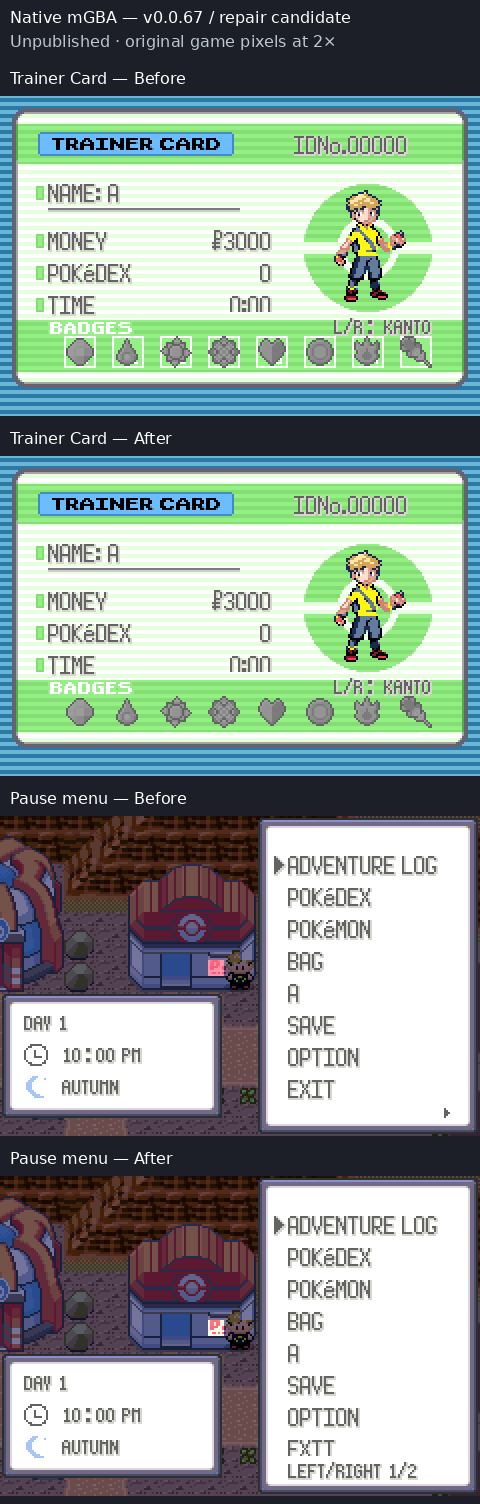
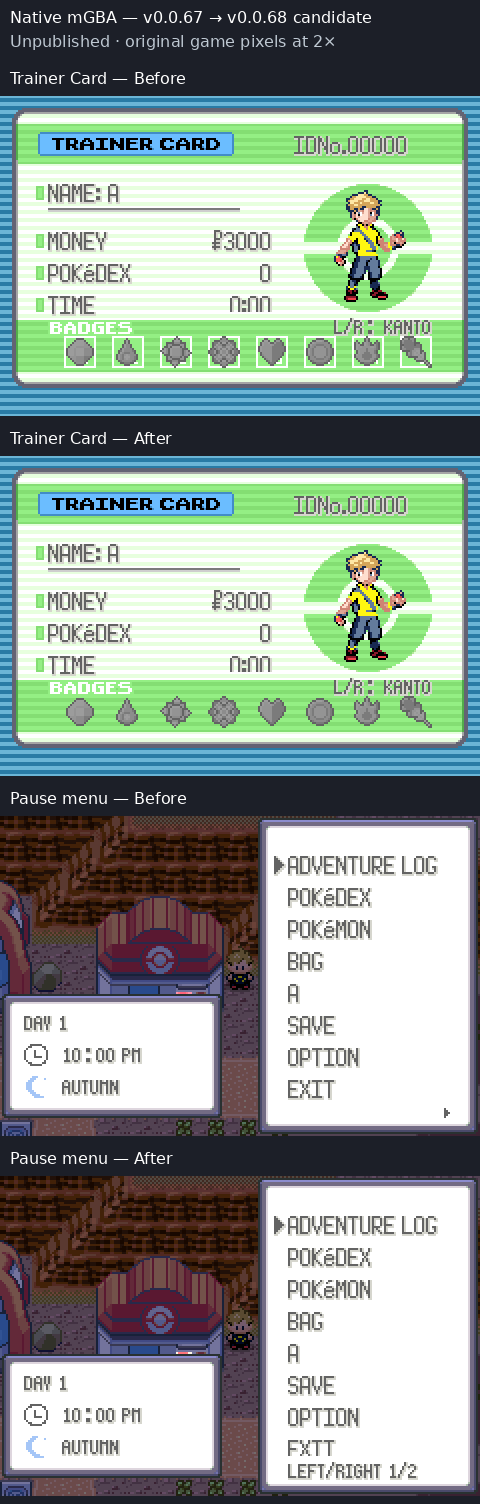
Prepare v0.0.68 visual repair candidate and downloadable CI patch artifacts

diff --git a/docs/changelog.html b/docs/changelog.html
@@ -5,7 +5,7 @@
   <meta name="viewport" content="width=device-width,initial-scale=1">
   <meta name="theme-color" content="#173b2d">
   <title>Changelog - Pokémon Emerald: Legends</title>
-  <meta name="description" content="Release and Debug changelogs for Pokémon Emerald: Legends v0.0.63.">
+  <meta name="description" content="Release and Debug changelogs for Pokémon Emerald: Legends v0.0.68.">
   <link rel="stylesheet" href="style.css?v=20261015-3">
 </head>
 <body>
@@ -15,7 +15,7 @@
         <img src="images/pikachu-header.gif" width="500" height="492" alt="" decoding="async">
       </span>
       <div class="title">EMERALD: LEGENDS // CHANGELOG</div>
-      <div class="version">v0.0.63</div>
+      <div class="version">v0.0.68</div>
     </header>
 
     <section class="panel changelog-shell">
@@ -29,11 +29,12 @@
       </div>
 
       <section class="changelog-view" id="release-changelog" role="tabpanel" aria-labelledby="release-tab" data-tab-panel="release">
+        <div class="change-entry"><h2>v0.0.68 <span class="change-date">October 20, 2026</span></h2><ul><li>Removed the numbered white Trainer Card badge boxes behind transparent badge art.</li><li>Restored the native black bedroom surround without changing furniture, rugs, beds or the ceiling trim.</li><li>Kept Pokémon Center sign faces warm white at night, with distinct red lettering and unchanged daytime artwork.</li><li>Replaced the pause page triangle with a LEFT/RIGHT page label and retained separate list-scroll indicators.</li><li>Preserved approved wardrobe art, saved choices and seasonal encounters; rare outfit oversaturation remained unresolved.</li><li>Shared these changes between Release and Debug; no variant-specific gameplay differences.</li></ul></div>
         <div class="change-entry"><h2>v0.0.67 <span class="change-date">October 20, 2026</span></h2><ul><li>Added 40 seasonal visitors across Generations 1–9 to Routes 117–121, with two visitors per route in each season.</li><li>Retained every original resident year-round, the previous 64 seasonal tables, native per-slot levels and weights, and Route 119’s lower encounter rate and long-grass habitat.</li><li>Preserved fishing, Surf, scripted encounters, story access, approved artwork/wardrobe/DexNav fitting and save layouts; synchronized matching LegendsDex data after verified game publication.</li></ul></div>
         <div class="change-entry"><h2>v0.0.66 <span class="change-date">October 19, 2026</span></h2><ul><li>Added 32 seasonal visitors across Generations 1–9 to Routes 113–116, including the native ash fields on Route 113.</li><li>Retained every original resident year-round, native per-slot levels, weights and encounter rates; preserved Routes 101–112, other encounter methods, approved artwork/DexNav fitting and saves.</li><li>Updated LegendsDex to the matching 64 seasonal tables and added All Seasons with season-specific availability and odds; preserved approved artwork, layout and independent companion release handling.</li></ul></div>
         <div class="change-entry"><h2>v0.0.65 <span class="change-date">October 19, 2026</span></h2><ul><li>Added 32 seasonal visitors across Generations 1–9 to Route 109 Surf, Route 110 grass, Route 111 desert and Route 112 grass.</li><li>Retained every original resident year-round, native slot levels/weights and encounter rates; kept the desert visitor roster suited to its arid habitat.</li><li>Preserved Routes 101–108, fishing, Rock Smash, other water tables, approved artwork and DexNav fitting, encounter priorities and save layouts.</li><li>Updated matching LegendsDex seasonal rosters, season badges and walkthrough resident shares; preserved the approved wiki artwork, layout and companion versions.</li></ul></div>
         <div class="change-entry"><h2>v0.0.64 <span class="change-date">October 18, 2026</span></h2><ul><li>Added seasonal Surf encounters on Routes 105–108 with 32 visitors across Generations 1–9; retained Tentacool, Wingull and Pelipper year-round.</li><li>Preserved native five-slot Surf weights, per-slot levels and encounter rate: residents occupied 65%, with seasonal visitors at 30% and 5%; kept fishing, other maps and the approved Routes 101–104 grass tables intact.</li><li>Connected Surf encounters, Sweet Scent, DexNav, habitat maps, local helpers and hints to the committed world season; preserved encounter priorities, approved icon fitting/artwork and save layouts.</li><li>Refreshed the wiki's seasonal Surf data, corrected walkthrough resident shares and synchronized cached sprite/profile metadata; preserved approved artwork, layout and independent companion release handling.</li></ul></div>
-        <div class="change-entry"><h2>v0.0.63 <span class="change-date">October 18, 2026</span></h2><ul><li>Added seasonal grass encounter tables on Routes 101–104, retaining every original resident, native levels and encounter rates while rotating two visitors per season from across Generations 1–9.</li><li>Connected native land encounters, DexNav, habitat maps and encounter hints to the same committed-season tables; preserved water, fishing, other routes, native encounter priorities and save layouts.</li><li>Replaced undiscovered DexNav question marks with actual animated icon silhouettes using an isolated black palette; preserved discovered colors, search locks, empty slots and existing icon artwork.</li><li>Centered DexNav icons using both animation poses and uniformly reduced oversized icons to fit their slots; preserved native assets, relative animation and identical discovered/silhouette placement.</li><li>Promoted the wiki's matching seasonal encounter snapshot to published v0.0.63 data after verifying both live patches; preserved approved artwork, layout and independent companion release handling.</li></ul></div>
+        <div class="change-entry"><h2>v0.0.68 <span class="change-date">October 18, 2026</span></h2><ul><li>Added seasonal grass encounter tables on Routes 101–104, retaining every original resident, native levels and encounter rates while rotating two visitors per season from across Generations 1–9.</li><li>Connected native land encounters, DexNav, habitat maps and encounter hints to the same committed-season tables; preserved water, fishing, other routes, native encounter priorities and save layouts.</li><li>Replaced undiscovered DexNav question marks with actual animated icon silhouettes using an isolated black palette; preserved discovered colors, search locks, empty slots and existing icon artwork.</li><li>Centered DexNav icons using both animation poses and uniformly reduced oversized icons to fit their slots; preserved native assets, relative animation and identical discovered/silhouette placement.</li><li>Promoted the wiki's matching seasonal encounter snapshot to published v0.0.68 data after verifying both live patches; preserved approved artwork, layout and independent companion release handling.</li></ul></div>
         <div class="change-entry"><h2>v0.0.62 <span class="change-date">October 17, 2026</span></h2><ul><li>Corrected the Fortree resident&#x27;s milestone speech to scroll its third line within the native two-line dialogue box.</li><li>Preserved Research Notes, seasonal bulletin choices, native gifts, quest/reward progress, save layouts, artwork and movement.</li><li>Added focused branch and text-layout regressions plus targeted native mGBA checks for Research Notes selection, bulletin choices/seasons and four towns&#x27; milestone dialogue.</li></ul></div>
         <div class="change-entry"><h2>v0.0.61 <span class="change-date">October 17, 2026</span></h2><ul><li>Added optional Research Notes for Birch and Mr. Stone reflecting completed requests and contracts.</li><li>Added four-season field bulletins at the rescued Weather Institute, preserving Castform and postgame weather reports.</li><li>Added progress-aware conversations in Littleroot, Rustboro, Fortree and Lilycove.</li><li>Kept existing story priority, rewards, sprites, quest IDs and save formats unchanged. Release and Debug have identical gameplay.</li></ul></div>
         <div class="change-entry"><h2>v0.0.60 <span class="change-date">October 16, 2026</span></h2><ul><li>Added 35 achievements, bringing the total to 130 while preserving all original 95 IDs, goals and rewards.</li><li>Added research milestones for Birch, Devon and the combined thirty-request catalogue, plus exploration, collecting, battle and everyday-activity goals.</li><li>Preserved the original 36-byte journal and tracked quest; appended a separately signed achievement save extension without moving existing fields or changing storage readers.</li><li>Backfilled eligible new goals quietly from retained progress, with manual one-time berry claims, full-PC retries and the established unlock notices and journal interface.</li></ul></div>
@@ -446,11 +447,12 @@
       </section>
 
       <section class="changelog-view" id="debug-changelog" role="tabpanel" aria-labelledby="debug-tab" data-tab-panel="debug" hidden>
+        <div class="change-entry"><h2>v0.0.68 <span class="change-date">October 20, 2026</span></h2><ul><li>Removed the numbered white Trainer Card badge boxes behind transparent badge art.</li><li>Restored the native black bedroom surround without changing furniture, rugs, beds or the ceiling trim.</li><li>Kept Pokémon Center sign faces warm white at night, with distinct red lettering and unchanged daytime artwork.</li><li>Replaced the pause page triangle with a LEFT/RIGHT page label and retained separate list-scroll indicators.</li><li>Preserved approved wardrobe art, saved choices and seasonal encounters; rare outfit oversaturation remained unresolved.</li><li>Shared these changes between Release and Debug; no variant-specific gameplay differences.</li></ul></div>
         <div class="change-entry"><h2>v0.0.67 <span class="change-date">October 20, 2026</span></h2><ul><li>Added 40 seasonal visitors across Generations 1–9 to Routes 117–121, with two visitors per route in each season.</li><li>Retained every original resident year-round, the previous 64 seasonal tables, native per-slot levels and weights, and Route 119’s lower encounter rate and long-grass habitat.</li><li>Preserved fishing, Surf, scripted encounters, story access, approved artwork/wardrobe/DexNav fitting and save layouts; synchronized matching LegendsDex data after verified game publication.</li></ul></div>
         <div class="change-entry"><h2>v0.0.66 <span class="change-date">October 19, 2026</span></h2><ul><li>Added 32 seasonal visitors across Generations 1–9 to Routes 113–116, including the native ash fields on Route 113.</li><li>Retained every original resident year-round, native per-slot levels, weights and encounter rates; preserved Routes 101–112, other encounter methods, approved artwork/DexNav fitting and saves.</li><li>Updated LegendsDex to the matching 64 seasonal tables and added All Seasons with season-specific availability and odds; preserved approved artwork, layout and independent companion release handling.</li></ul></div>
         <div class="change-entry"><h2>v0.0.65 <span class="change-date">October 19, 2026</span></h2><ul><li>Added 32 seasonal visitors across Generations 1–9 to Route 109 Surf, Route 110 grass, Route 111 desert and Route 112 grass.</li><li>Retained every original resident year-round, native slot levels/weights and encounter rates; kept the desert visitor roster suited to its arid habitat.</li><li>Preserved Routes 101–108, fishing, Rock Smash, other water tables, approved artwork and DexNav fitting, encounter priorities and save layouts.</li><li>Updated matching LegendsDex seasonal rosters, season badges and walkthrough resident shares; preserved the approved wiki artwork, layout and companion versions.</li></ul></div>
         <div class="change-entry"><h2>v0.0.64 <span class="change-date">October 18, 2026</span></h2><ul><li>Added seasonal Surf encounters on Routes 105–108 with 32 visitors across Generations 1–9; retained Tentacool, Wingull and Pelipper year-round.</li><li>Preserved native five-slot Surf weights, per-slot levels and encounter rate: residents occupied 65%, with seasonal visitors at 30% and 5%; kept fishing, other maps and the approved Routes 101–104 grass tables intact.</li><li>Connected Surf encounters, Sweet Scent, DexNav, habitat maps, local helpers and hints to the committed world season; preserved encounter priorities, approved icon fitting/artwork and save layouts.</li><li>Refreshed the wiki's seasonal Surf data, corrected walkthrough resident shares and synchronized cached sprite/profile metadata; preserved approved artwork, layout and independent companion release handling.</li></ul></div>
-        <div class="change-entry"><h2>v0.0.63 <span class="change-date">October 18, 2026</span></h2><ul><li>Added seasonal grass encounter tables on Routes 101–104, retaining every original resident, native levels and encounter rates while rotating two visitors per season from across Generations 1–9.</li><li>Connected native land encounters, DexNav, habitat maps and encounter hints to the same committed-season tables; preserved water, fishing, other routes, native encounter priorities and save layouts.</li><li>Replaced undiscovered DexNav question marks with actual animated icon silhouettes using an isolated black palette; preserved discovered colors, search locks, empty slots and existing icon artwork.</li><li>Centered DexNav icons using both animation poses and uniformly reduced oversized icons to fit their slots; preserved native assets, relative animation and identical discovered/silhouette placement.</li><li>Promoted the wiki's matching seasonal encounter snapshot to published v0.0.63 data after verifying both live patches; preserved approved artwork, layout and independent companion release handling.</li></ul></div>
+        <div class="change-entry"><h2>v0.0.68 <span class="change-date">October 18, 2026</span></h2><ul><li>Added seasonal grass encounter tables on Routes 101–104, retaining every original resident, native levels and encounter rates while rotating two visitors per season from across Generations 1–9.</li><li>Connected native land encounters, DexNav, habitat maps and encounter hints to the same committed-season tables; preserved water, fishing, other routes, native encounter priorities and save layouts.</li><li>Replaced undiscovered DexNav question marks with actual animated icon silhouettes using an isolated black palette; preserved discovered colors, search locks, empty slots and existing icon artwork.</li><li>Centered DexNav icons using both animation poses and uniformly reduced oversized icons to fit their slots; preserved native assets, relative animation and identical discovered/silhouette placement.</li><li>Promoted the wiki's matching seasonal encounter snapshot to published v0.0.68 data after verifying both live patches; preserved approved artwork, layout and independent companion release handling.</li></ul></div>
         <div class="change-entry"><h2>v0.0.62 <span class="change-date">October 17, 2026</span></h2><ul><li>Corrected the Fortree resident&#x27;s milestone speech to scroll its third line within the native two-line dialogue box.</li><li>Preserved Research Notes, seasonal bulletin choices, native gifts, quest/reward progress, save layouts, artwork and movement.</li><li>Added focused branch and text-layout regressions plus targeted native mGBA checks for Research Notes selection, bulletin choices/seasons and four towns&#x27; milestone dialogue.</li></ul></div>
         <div class="change-entry"><h2>v0.0.61 <span class="change-date">October 17, 2026</span></h2><ul><li>Added optional Research Notes for Birch and Mr. Stone reflecting completed requests and contracts.</li><li>Added four-season field bulletins at the rescued Weather Institute, preserving Castform and postgame weather reports.</li><li>Added progress-aware conversations in Littleroot, Rustboro, Fortree and Lilycove.</li><li>Kept existing story priority, rewards, sprites, quest IDs and save formats unchanged. Release and Debug have identical gameplay.</li></ul></div>
         <div class="change-entry"><h2>v0.0.60 <span class="change-date">October 16, 2026</span></h2><ul><li>Added 35 achievements, bringing the total to 130 while preserving all original 95 IDs, goals and rewards.</li><li>Added research milestones for Birch, Devon and the combined thirty-request catalogue, plus exploration, collecting, battle and everyday-activity goals.</li><li>Preserved the original 36-byte journal and tracked quest; appended a separately signed achievement save extension without moving existing fields or changing storage readers.</li><li>Backfilled eligible new goals quietly from retained progress, with manual one-time berry claims, full-PC retries and the established unlock notices and journal interface.</li></ul></div>

diff --git a/docs/index.html b/docs/index.html
@@ -15,7 +15,7 @@
         <img src="images/pikachu-header.gif" width="500" height="492" alt="" decoding="async">
       </span>
       <div class="title" role="heading" aria-level="1">POKÉMON EMERALD: LEGENDS <a href="wiki/" style="color:#e8d7ff;margin-left:12px;text-decoration:underline;text-underline-offset:3px">WIKI</a></div>
-      <div class="version">v0.0.67</div>
+      <div class="version">v0.0.68</div>
     </header>
 
     <section class="hero panel">
@@ -37,7 +37,7 @@
           <p class="eyebrow">Downloads</p>
           <span class="download-count" id="download-count" role="status" aria-label="Loading download count" title="Download actions since October 15, 2026 (Release and Debug combined)">…</span>
         </div>
-        <h2>Version 0.0.67</h2>
+        <h2>Version 0.0.68</h2>
         <div class="download-changelog">
           <a class="button" href="changelog.html">Changelog</a>
         </div>
@@ -45,16 +45,16 @@
       <div class="download-stack">
         <div class="download-box">
           <div class="download-status">RECOMMENDED // RELEASE</div>
-          <strong>Pokémon Emerald: Legends v0.0.67</strong>
+          <strong>Pokémon Emerald: Legends v0.0.68</strong>
           <a class="button primary" href="patcher.html">Create Release .GBA</a>
-          <a class="button" href="downloads/Pokemon-Emerald-Legends-v0.0.67.bps" download>Release BPS patch</a>
+          <a class="button" href="downloads/Pokemon-Emerald-Legends-v0.0.68.bps" download>Release BPS patch</a>
         </div>
 
         <div class="download-box debug">
           <div class="download-status">DEVELOPER // DEBUG</div>
-          <strong>Pokémon Emerald: Legends v0.0.67 Debug</strong>
+          <strong>Pokémon Emerald: Legends v0.0.68 Debug</strong>
           <a class="button" href="patcher.html?build=debug">Create Debug .GBA</a>
-          <a class="button" href="downloads/Pokemon-Emerald-Legends-v0.0.67-debug.bps" download>Debug BPS patch</a>
+          <a class="button" href="downloads/Pokemon-Emerald-Legends-v0.0.68-debug.bps" download>Debug BPS patch</a>
           <div class="build-note">Debug includes Quickstart and the available overworld, battle, and Pokémon sprite debug tools.</div>
         </div>
       </div>

diff --git a/docs/patcher.html b/docs/patcher.html
@@ -4,8 +4,8 @@
   <meta charset="utf-8">
   <meta name="viewport" content="width=device-width,initial-scale=1">
   <meta name="theme-color" content="#173b2d">
-  <title>Patch Pokémon Emerald: Legends v0.0.67</title>
-  <meta name="description" content="Create your Pokémon Emerald: Legends v0.0.67 ROM locally in your browser.">
+  <title>Patch Pokémon Emerald: Legends v0.0.68</title>
+  <meta name="description" content="Create your Pokémon Emerald: Legends v0.0.68 ROM locally in your browser.">
   <link rel="stylesheet" href="style.css?v=20261015-5">
 </head>
 <body>
@@ -15,7 +15,7 @@
         <img src="images/pikachu-header.gif" width="500" height="492" alt="" decoding="async">
       </span>
       <div class="title">EMERALD: LEGENDS // PATCHER</div>
-      <div class="version" id="build-version">v0.0.67</div>
+      <div class="version" id="build-version">v0.0.68</div>
     </header>
 
     <section class="panel patcher-panel">
@@ -36,7 +36,7 @@
         <input id="rom-file" type="file" accept=".gba,application/octet-stream">
 
         <button id="patch-button" class="button primary patch-action" disabled>
-          2. Create Emerald: Legends v0.0.67 Release
+          2. Create Emerald: Legends v0.0.68 Release
         </button>
 
         <div id="patch-status" class="patch-status" role="status">
@@ -54,7 +54,7 @@
 
     <footer>
       <p>Unofficial, non-commercial fan project. Pokémon and related properties belong to their respective rights holders.</p>
-      <p id="build-footer">Pokémon Emerald: Legends v0.0.67 Release</p>
+      <p id="build-footer">Pokémon Emerald: Legends v0.0.68 Release</p>
     </footer>
   </main>
   <script src="download-counter.js?v=20261015-1"></script>

diff --git a/docs/patcher.js b/docs/patcher.js
@@ -2,7 +2,7 @@
   "use strict";
 
   const EXPECTED_SHA1 = "f3ae088181bf583e55daf962a92bb46f4f1d07b7";
-  const VERSION = "0.0.67";
+  const VERSION = "0.0.68";
   const params = new URLSearchParams(window.location.search);
   const IS_DEBUG = params.get("build") === "debug";
   const BUILD_LABEL = IS_DEBUG ? "Debug" : "Release";

diff --git a/src/option_menu.c b/src/option_menu.c
@@ -113,9 +113,9 @@ EWRAM_DATA static bool8 sArrowPressed = FALSE;
 
 static const u8 gText_PageControls[]       = _("A: NEXT  B: SAVE");
 #ifdef RELEASE
-static const u8 gText_LegendsVersion[]      = _("LEGENDS v0.0.67");
+static const u8 gText_LegendsVersion[]      = _("LEGENDS v0.0.68");
 #else
-static const u8 gText_LegendsVersion[]      = _("LEGENDS v0.0.67-D");
+static const u8 gText_LegendsVersion[]      = _("LEGENDS v0.0.68-D");
 #endif
 static const u8 gText_TextSpeedSlow[]      = _("{COLOR GREEN}{SHADOW LIGHT_GREEN}SLOW");
 static const u8 gText_TextSpeedMid[]       = _("{COLOR GREEN}{SHADOW LIGHT_GREEN}MID");

diff --git a/src/main_menu.c b/src/main_menu.c
@@ -270,9 +270,9 @@ static const u8 gText_MainMenuNewGame[] = _("NEW GAME");
 static const u8 gText_MainMenuContinue[] = _("CONTINUE");
 static const u8 gText_MainMenuOption[] = _("OPTION");
 #ifdef RELEASE
-static const u8 sText_MainMenuVersion[] = _("v0.0.67");
+static const u8 sText_MainMenuVersion[] = _("v0.0.68");
 #else
-static const u8 sText_MainMenuVersion[] = _("v0.0.67-D");
+static const u8 sText_MainMenuVersion[] = _("v0.0.68-D");
 #endif
 static const u8 gText_MainMenuMysteryGift[] = _("MYSTERY GIFT");
 static const u8 gText_MainMenuMysteryGift2[] = _("MYSTERY GIFT");

diff --git a/tools/legends/native_visual_repairs_qa/arm.c b/tools/legends/native_visual_repairs_qa/arm.c
@@ -69,7 +69,7 @@ void qa(void)
     case 5: case 6:
         LegendsClockSetManual(box[0]==5 ? 12 : 22,0);
         CleanupOverworldWindowsAndTilemaps(); ResetTasks();
-        SetWarpDestination(MAP_GROUP(MAP_FALLARBOR_TOWN), MAP_NUM(MAP_FALLARBOR_TOWN), -1, 16, 7);
+        SetWarpDestination(MAP_GROUP(MAP_FALLARBOR_TOWN), MAP_NUM(MAP_FALLARBOR_TOWN), -1, 17, 6);
         WarpIntoMap(); SetMainCallback2(CB2_LoadMap); break;
     case 7:
         {

diff --git a/docs/DEVELOPMENT-HANDOFF.md b/docs/DEVELOPMENT-HANDOFF.md
@@ -4,11 +4,11 @@
 
 **Model: GPT-6 (Codex) | Reasoning: trace native tile/palette ownership and real menu/save transitions; preserve approved art.**
 
-Owner paused the selected hidden-grotto feature to report badge boxes, the Center night sign, pale bedroom borders, pause arrows and rare outfit oversaturation. Started from verified v0.0.67 `e019d5f8`; clean local Debug reproduced the exact published ROM hash. Four scoped repairs are on the review branch: remove only underlying numbered card slots, remap twelve native black bedroom-void cells away from the reused decoration palette, distinguish pale sign faces from red night lettering, and replace the page triangle with a LEFT/RIGHT page label. Original sprite pixels, furniture, native ceiling highlight, movement geometry, saved IDs/layouts and seasonal encounters are retained.
+Owner paused the selected hidden-grotto feature to report badge boxes, the Center night sign, pale bedroom borders, pause arrows and rare outfit oversaturation. Started from verified v0.0.67 `e019d5f8`; clean local Debug reproduced the exact published ROM hash. Four scoped repairs are in [draft PR #86](https://github.com/BabyCRTTV/pokeemerald-emerald-legends/pull/86): remove only underlying numbered card slots, remap twelve native black bedroom-void cells away from the reused decoration palette, distinguish pale sign faces from red night lettering, and replace the page triangle with a LEFT/RIGHT page label. Original sprite pixels, furniture, native ceiling highlight, movement geometry, saved IDs/layouts and seasonal encounters are retained.
 
 Rare outfit corruption is **unreproduced and unresolved**; no speculative wardrobe recoloring/cache patch was applied. Actual native palette checks covered 72 gender/movement cases, 16 repeated Apply/Cancel/Card cycles and real flash reloads of nine appearance/bedroom fields for both genders. Ten focused host regressions and both local builds passed. Native Debug captures and a normal Release Continue harness are in `tools/legends/native_visual_repairs_qa/`; private injected ROMs/save fixtures must never be published. [Detailed QA, review state and next steps](qa/visual-repairs.md).
 
-This is an unpublished review candidate, not a released v0.0.67 patch. Master/downloads/Pages remain v0.0.67. Review actual native captures before publishing the proposed menu/sign presentation. Complete CI/BPS receipts, promote version/site/changelogs together for the next release, and retain the outfit investigation as open unless reproduced and verified. Grottos remain next after this visual review/repair work; do not restart completed routes, wardrobe or artwork.
+This is an unpublished v0.0.68 review candidate with synchronized version labels, three changelogs, site and patcher metadata. Master/downloads/Pages remain v0.0.67. Review actual native captures before publishing the proposed menu/sign presentation. Complete v0.0.68 CI/BPS receipts and live publication verification after approval; retain the outfit investigation as open unless reproduced and verified. Grottos remain next after this visual review/repair work; do not restart completed routes, wardrobe or artwork.
 
 ## Current release — v0.0.67 seasonal Routes 117–121 (20 October 2026)
 

diff --git a/docs/qa/visual-repairs.md b/docs/qa/visual-repairs.md
@@ -1,6 +1,6 @@
-# Visual repair candidate after v0.0.67
+# v0.0.68 visual repair candidate
 
-Unpublished; four visual repairs prepared for owner review. The rare outfit report remains open. No version, public patch or Pages publication is claimed.
+Unpublished [PR #86](https://github.com/BabyCRTTV/pokeemerald-emerald-legends/pull/86); four visual repairs prepared for owner review. The rare outfit report remains open. Version and site metadata are prepared for v0.0.68 on the review branch; no public patch or Pages publication is claimed.
 
 ## Causes and scope
 
@@ -19,9 +19,11 @@ Both normal Debug and LTO Release builds passed. Controlled Debug mGBA checks co
 
 Normal unmodified Release Continue, both pause pages, both badge regions and natural floor approach to each bedroom wardrobe passed. Both Release bedroom frames and all four Kanto badge rows matched Debug exactly. Daytime Fallarbor and the wardrobe preview matched the original baseline frame exactly; bedroom differences were exclusively the old lavender void becoming black. Card changes were confined to its badge row. Moving outdoor NPCs are not a whole-frame regression target. [Local machine receipts](visual-repairs-local.json) include exact ROM/image hashes. [Native UI review](visual-repairs-ui.png) and [native world review](visual-repairs-world.png) show before/after at 2× nearest-neighbor scale. CI/BPS results remain pending and are not implied by local build success. Original screenshot files and private ROM/save fixtures are excluded from commits and CI uploads.
 
+The first project CI attempt exposed that the new native-font bounds test ran before Pillow was installed. Moved the existing pinned Pillow install before that test; the v0.0.67-source rerun passed. The v0.0.68 candidate now includes synchronized version labels, three changelogs, site/patcher metadata and a PR-only artifact upload for independently verified BPS patches. Generated .pal blobs follow the repository's LF-in-Git/CRLF-checkout policy; palette colors and native ROM bytes are unaffected by newline normalization.
+
 ## Remaining work
 
 - Owner review of the proposed native menu/sign appearance; publish only after that review.
-- Complete next-version metadata, all three changelogs/site, Debug/Release BPS application and live publication verification when promoting the candidate.
+- Publish the prepared v0.0.68 metadata/site and independently verified Debug/Release patches only after visual approval; then verify live bytes and Actions.
 - Reproduce rare outfit oversaturation, retaining the exact appearance settings, preceding menu/field action, weather/time, follower and whether a map reload restores it. Keep the issue open; successful controlled tests are not proof it is fixed on Pizza Boy.
 - Continue hidden grottos after the visual work. No grotto mechanics or assets were implemented here.

diff --git a/README.md b/README.md
@@ -1,6 +1,6 @@
 # Pokémon Emerald: Legends
 
-**Version:** 0.0.67<br>
+**Version:** 0.0.68<br>
 **Base:** [pokeemerald-expansion](https://github.com/rh-hideout/pokeemerald-expansion)
 
 Pokémon Emerald: Legends is an unofficial, non-commercial Pokémon Emerald ROM-hack project built on the open-source `pokeemerald-expansion` decompilation/expansion base.
@@ -9,7 +9,7 @@ The project is intended to preserve the feel and structure of Pokémon Emerald w
 
 The New Game / Continue / Options menu uses a soft lavender backdrop as of v0.0.13.1. v0.0.54 displays the current version at the right edge of its OPTION card, matching the native text; Debug includes the -D suffix.
 
-v0.0.67 extended seasonal land encounters to Routes 117–121 with 40 new visitors across Generations 1–9. All original residents remain year-round with native slot levels, weights and rates, including Route 119’s rate 15 and long grass on Routes 119–120. Seasonal Routes 101–116, approved native DexNav fitting and the tablet wiki layout remain included. [Roster and rules](docs/features/seasonal-encounters.md).
+v0.0.68 repaired Trainer Card badge backgrounds, restored native black bedroom surrounds, improved Pokémon Center sign readability at night and clarified pause-page controls. Approved wardrobe artwork and seasonal encounters were preserved. Rare outfit oversaturation remains under investigation; this update does not claim to resolve it.
 
 v0.0.62 corrected the Fortree dialogue scroll and strengthened focused Living Hoenn checks. [Review and QA](docs/qa/living-hoenn-review-v0.0.62.md).
 

diff --git a/CHANGELOG.md b/CHANGELOG.md
@@ -4,12 +4,14 @@ All notable Pokémon Emerald: Legends project changes are documented here.
 
 For build-specific player views, see [CHANGELOG-RELEASE.md](CHANGELOG-RELEASE.md) and [CHANGELOG-DEBUG.md](CHANGELOG-DEBUG.md). The canonical history below records the project as a whole.
 
-## Unreleased — visual repair candidate
+## [0.0.68] - 2026-10-20
 
 - Removed the numbered white Trainer Card badge boxes behind transparent badge art.
 - Restored the native black bedroom surround by isolating its palette from decoration colors.
 - Kept Pokémon Center sign faces warm white at night, with distinct red lettering and unchanged daytime artwork.
 - Replaced the pause menu's page triangle with a LEFT/RIGHT page label and retained separate list-scroll indicators.
+- Preserved approved wardrobe artwork, saved choices and seasonal encounters; retained the rare outfit-oversaturation report as unresolved.
+- Shared the repairs between Release and Debug without variant-specific gameplay differences.
 
 ## Wiki 1.7.0 - 2026-10-18
 

diff --git a/CHANGELOG-RELEASE.md b/CHANGELOG-RELEASE.md
@@ -2,12 +2,14 @@
 
 This is the player-facing history for the recommended **Release** build. Shared Legends changes are repeated here so this file stands on its own; Release-only behavior is called out separately.
 
-## Unreleased — visual repair candidate
+## [0.0.68] - 2026-10-20
 
 - Removed the numbered white Trainer Card badge boxes behind transparent badge art.
 - Restored the native black bedroom surround by isolating its palette from decoration colors.
 - Kept Pokémon Center sign faces warm white at night, with distinct red lettering and unchanged daytime artwork.
 - Replaced the pause menu's page triangle with a LEFT/RIGHT page label and retained separate list-scroll indicators.
+- Preserved approved wardrobe artwork, saved choices and seasonal encounters; retained the rare outfit-oversaturation report as unresolved.
+- Shared the repairs between Release and Debug without variant-specific gameplay differences.
 
 ## [0.0.67] - 2026-10-20
 
